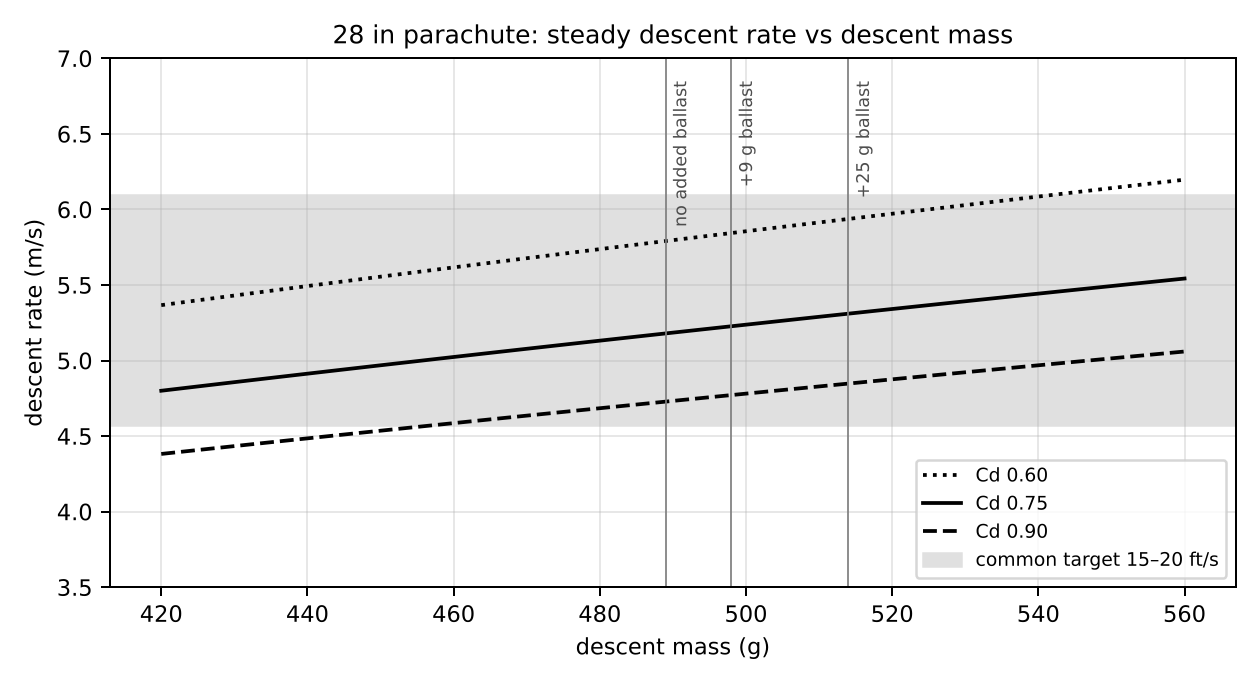
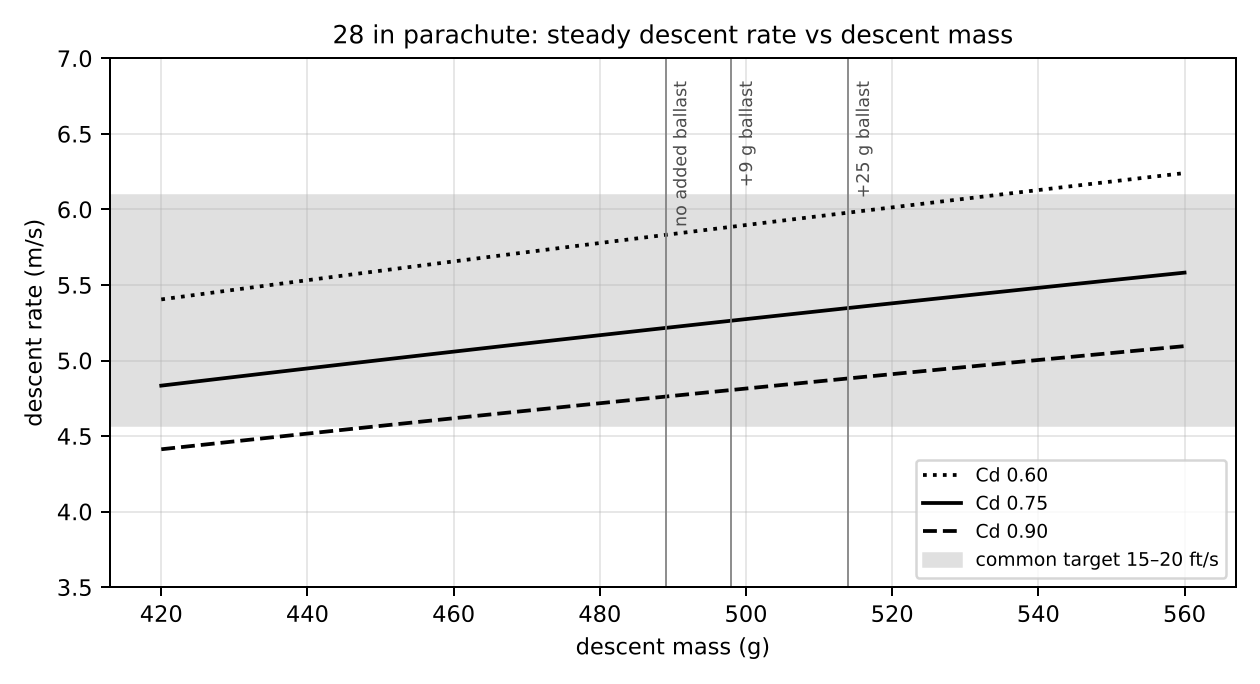
Design decisions 2026-11-23 recorded; LOC 28 in chute with spill hole in recovery analysis; ballast-vs-CG chart (1.7 min / 1.8 target)
Claude-Session: https://claude.ai/code/session_01JbHocCdFPmDsRrA6bRt32a

diff --git a/tools/recovery_analysis.py b/tools/recovery_analysis.py
@@ -1,4 +1,4 @@
-"""Recovery analysis, 28 in parachute: descent rate, landing energy, opening load, shock-cord snatch, drift,
+"""Recovery analysis, LOC Precision 28 in parachute (84 mm spill hole, 8 lines): descent rate, landing energy, opening load, shock-cord snatch, drift,
 deployment speed vs actual delay.
 
   .venv/bin/python tools/recovery_analysis.py
@@ -22,11 +22,12 @@ G = 9.80665
 RHO = 1.20            # Palm Bay, mid-December, near sea level, ~20 °C (ISA sea level 1.225)
 D_IN = 28.0
 D = D_IN * 0.0254
-A = math.pi * D ** 2 / 4
+D_SPILL = 0.084       # LOC Precision 28 in parachute: 84 mm spill hole, 8 shroud lines (vendor listing)
+A = math.pi * (D ** 2 - D_SPILL ** 2) / 4
 CD = {"low (0.60)": 0.60, "nominal (0.75)": 0.75, "high (0.90)": 0.90}
 CX = 1.6              # opening-force coefficient, flat circular canopy, infinite-mass upper bound (Knacke)
 KEV_RATED = 3336.0    # 750 lb hollow-braid Kevlar
-KNOT_EFF = 0.40       # figure-8 knot efficiency (aramid study, recovery analysis)
+KNOT_EFF = 0.40       # figure-8 knot efficiency (aramid study); cord ends are knotted (design decision 2026-11-23)
 EA_KEV = 65e3         # N, axial stiffness of the 2.3 mm braid (E ≈ 70 GPa on ≈ 0.93 mm² load-bearing area)
 
 
@@ -42,7 +43,7 @@ def main():
     t, v, z = map(np.array, (F["t"], F["speed"], F["z"]))
     apogee, t_bo = float(F["apogee"]), float(F["t_bo"])
 
-    res = {"inputs": {"chute_d_in": D_IN, "area_m2": A, "rho": RHO, "cd": CD, "cx": CX, "propellant_g": prop,
+    res = {"inputs": {"chute_d_in": D_IN, "spill_d_m": D_SPILL, "area_m2": A, "rho": RHO, "cd": CD, "cx": CX, "propellant_g": prop,
                       "liftoff_g": liftoff, "cord_length_m": L_cord, "apogee_m": apogee}}
     # 1. descent rate and landing energy
     rows = []

diff --git a/tools/ballast_chart.py b/tools/ballast_chart.py
@@ -1,0 +1,28 @@
+"""Nose ballast required vs the measured ready-to-fly CG (without added ballast), for the 1.7 cal minimum and the
+1.8 cal target on both CFD centre-of-pressure bases. Ballast station 74.6 mm from the tip; liftoff mass 610 g ESTIMATE.
+
+  .venv/bin/python tools/ballast_chart.py
+"""
+from pathlib import Path
+
+import matplotlib
+matplotlib.use("Agg")
+import matplotlib.pyplot as plt
+import numpy as np
+
+ROOT = Path(__file__).resolve().parent.parent
+D, M, XB = 41.275, 610.0, 74.6
+cg = np.linspace(735, 790, 200)
+fig, ax = plt.subplots(figsize=(7, 4))
+for cp, lab, lw in [(809.9, "CP 809.9 mm (CFD, flight geometry)", 1.6), (827.4, "CP 827.4 mm (CFD, rev 9 reference)", 0.9)]:
+    for sm, ls in [(1.7, "--"), (1.8, "-")]:
+        tgt = cp - sm * D
+        mb = np.clip(M * (cg - tgt) / (tgt - XB), 0, None)
+        ax.plot(cg, mb, "k", ls=ls, lw=lw, label=f"{sm} cal · {lab}")
+ax.axvline(763.3, color="0.5", lw=0.8); ax.text(763.8, 33, "estimated CG\n763.3 mm", fontsize=7.5, color="0.3")
+ax.set_xlabel("measured ready-to-fly CG without added ballast (mm from nose tip)")
+ax.set_ylabel("nose ballast required (g)"); ax.set_ylim(0, 40); ax.grid(alpha=.3); ax.legend(fontsize=7.5, loc="upper left")
+ax.set_title("Nose ballast required vs as-built CG (ballast at 74.6 mm, 610 g basis)", fontsize=10)
+fig.tight_layout()
+out = ROOT / "projects/l1-cheap/report/figures/ballast_vs_cg.png"
+fig.savefig(out, dpi=180); print(out)
